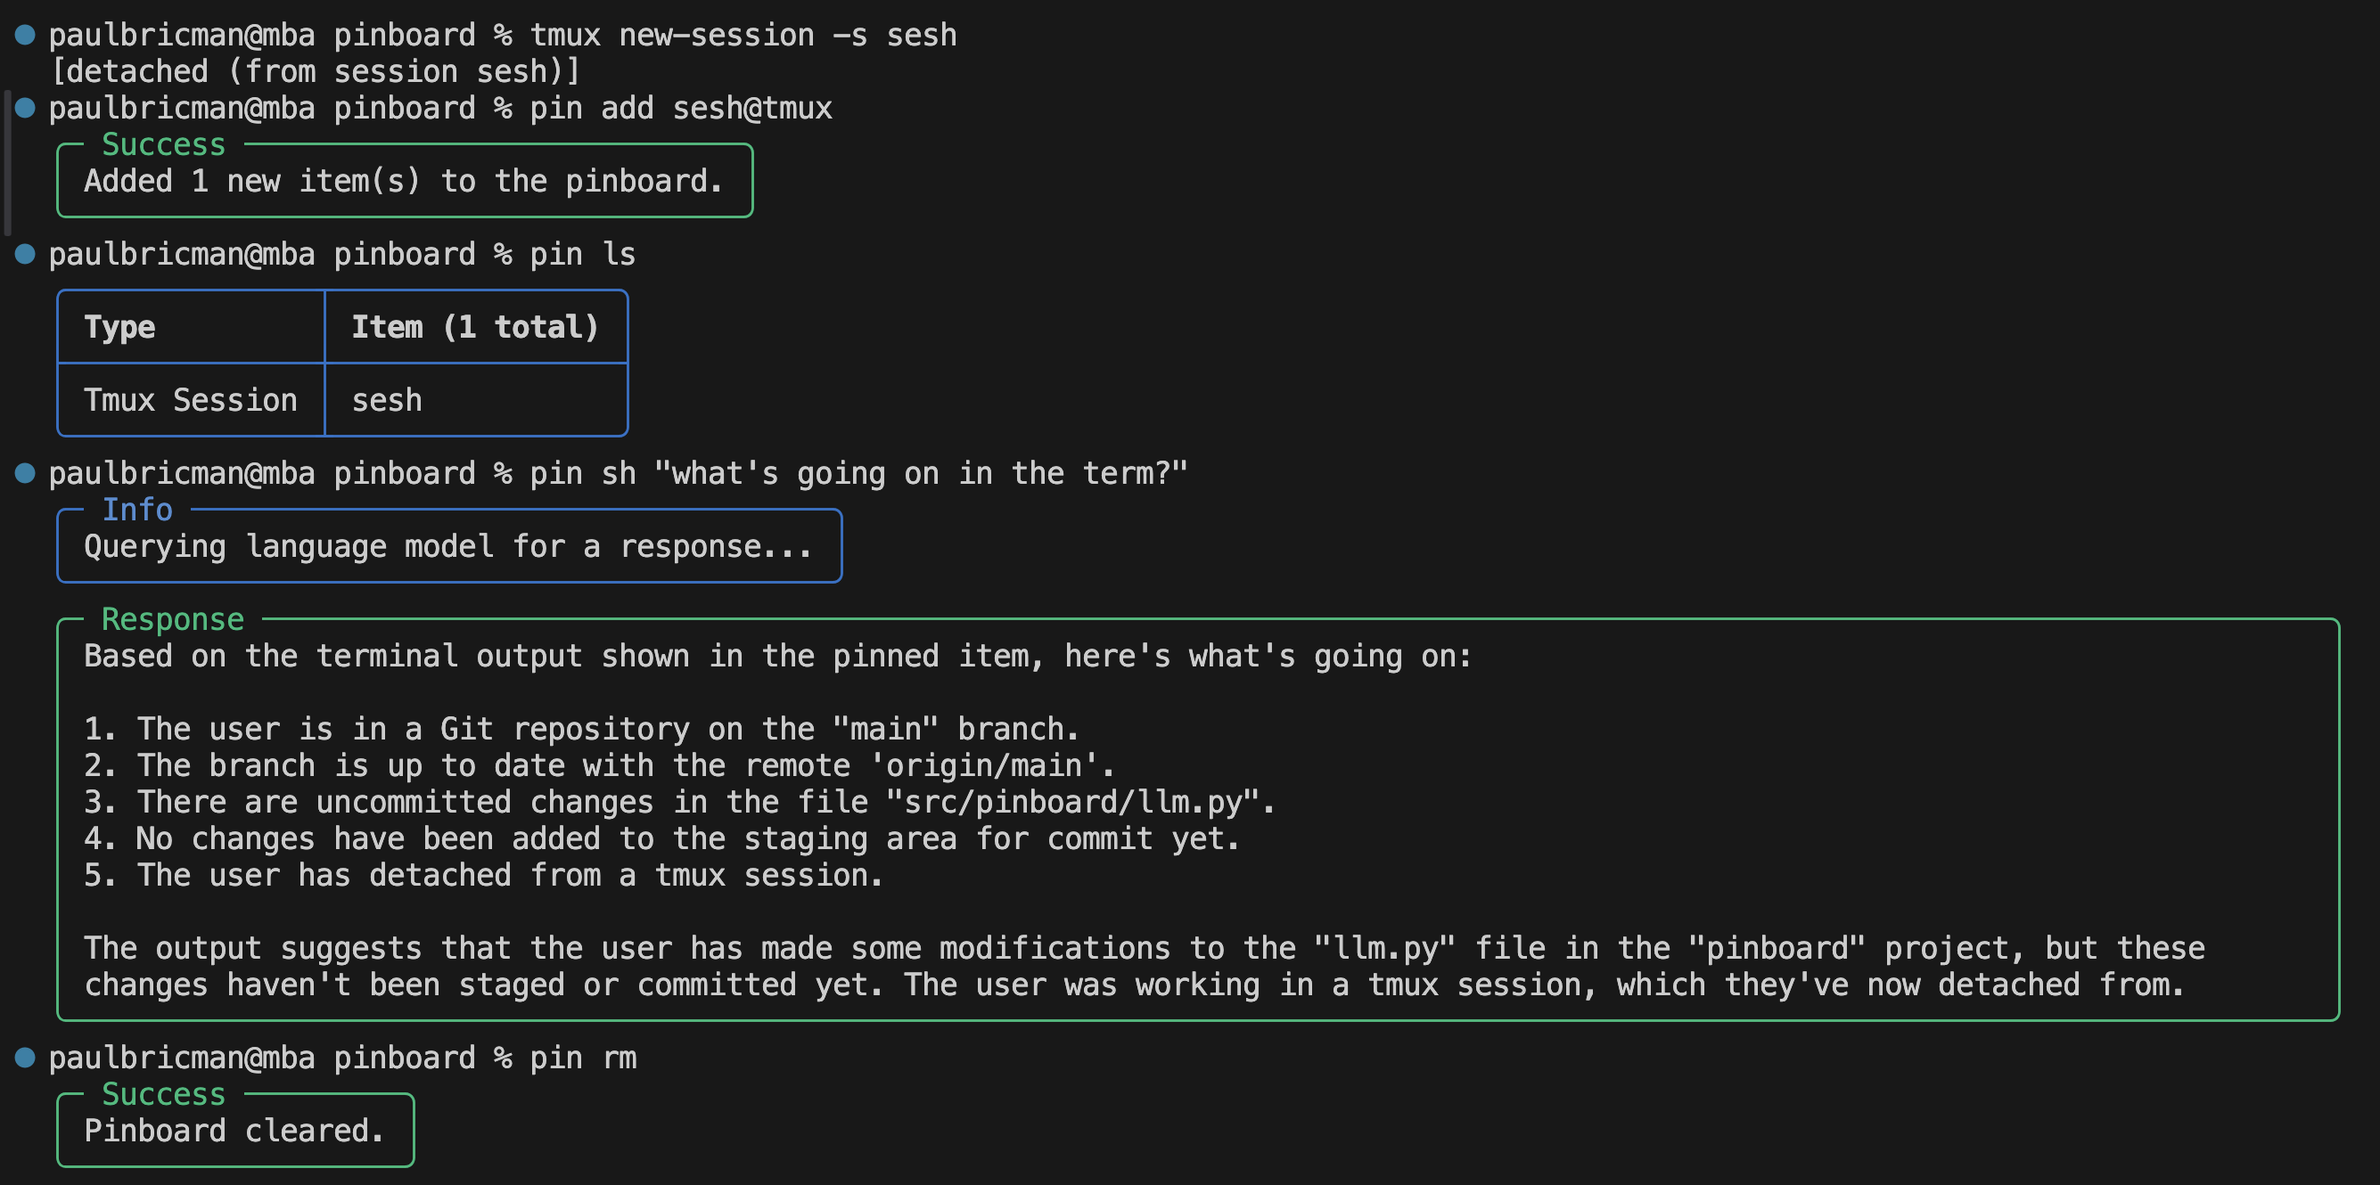
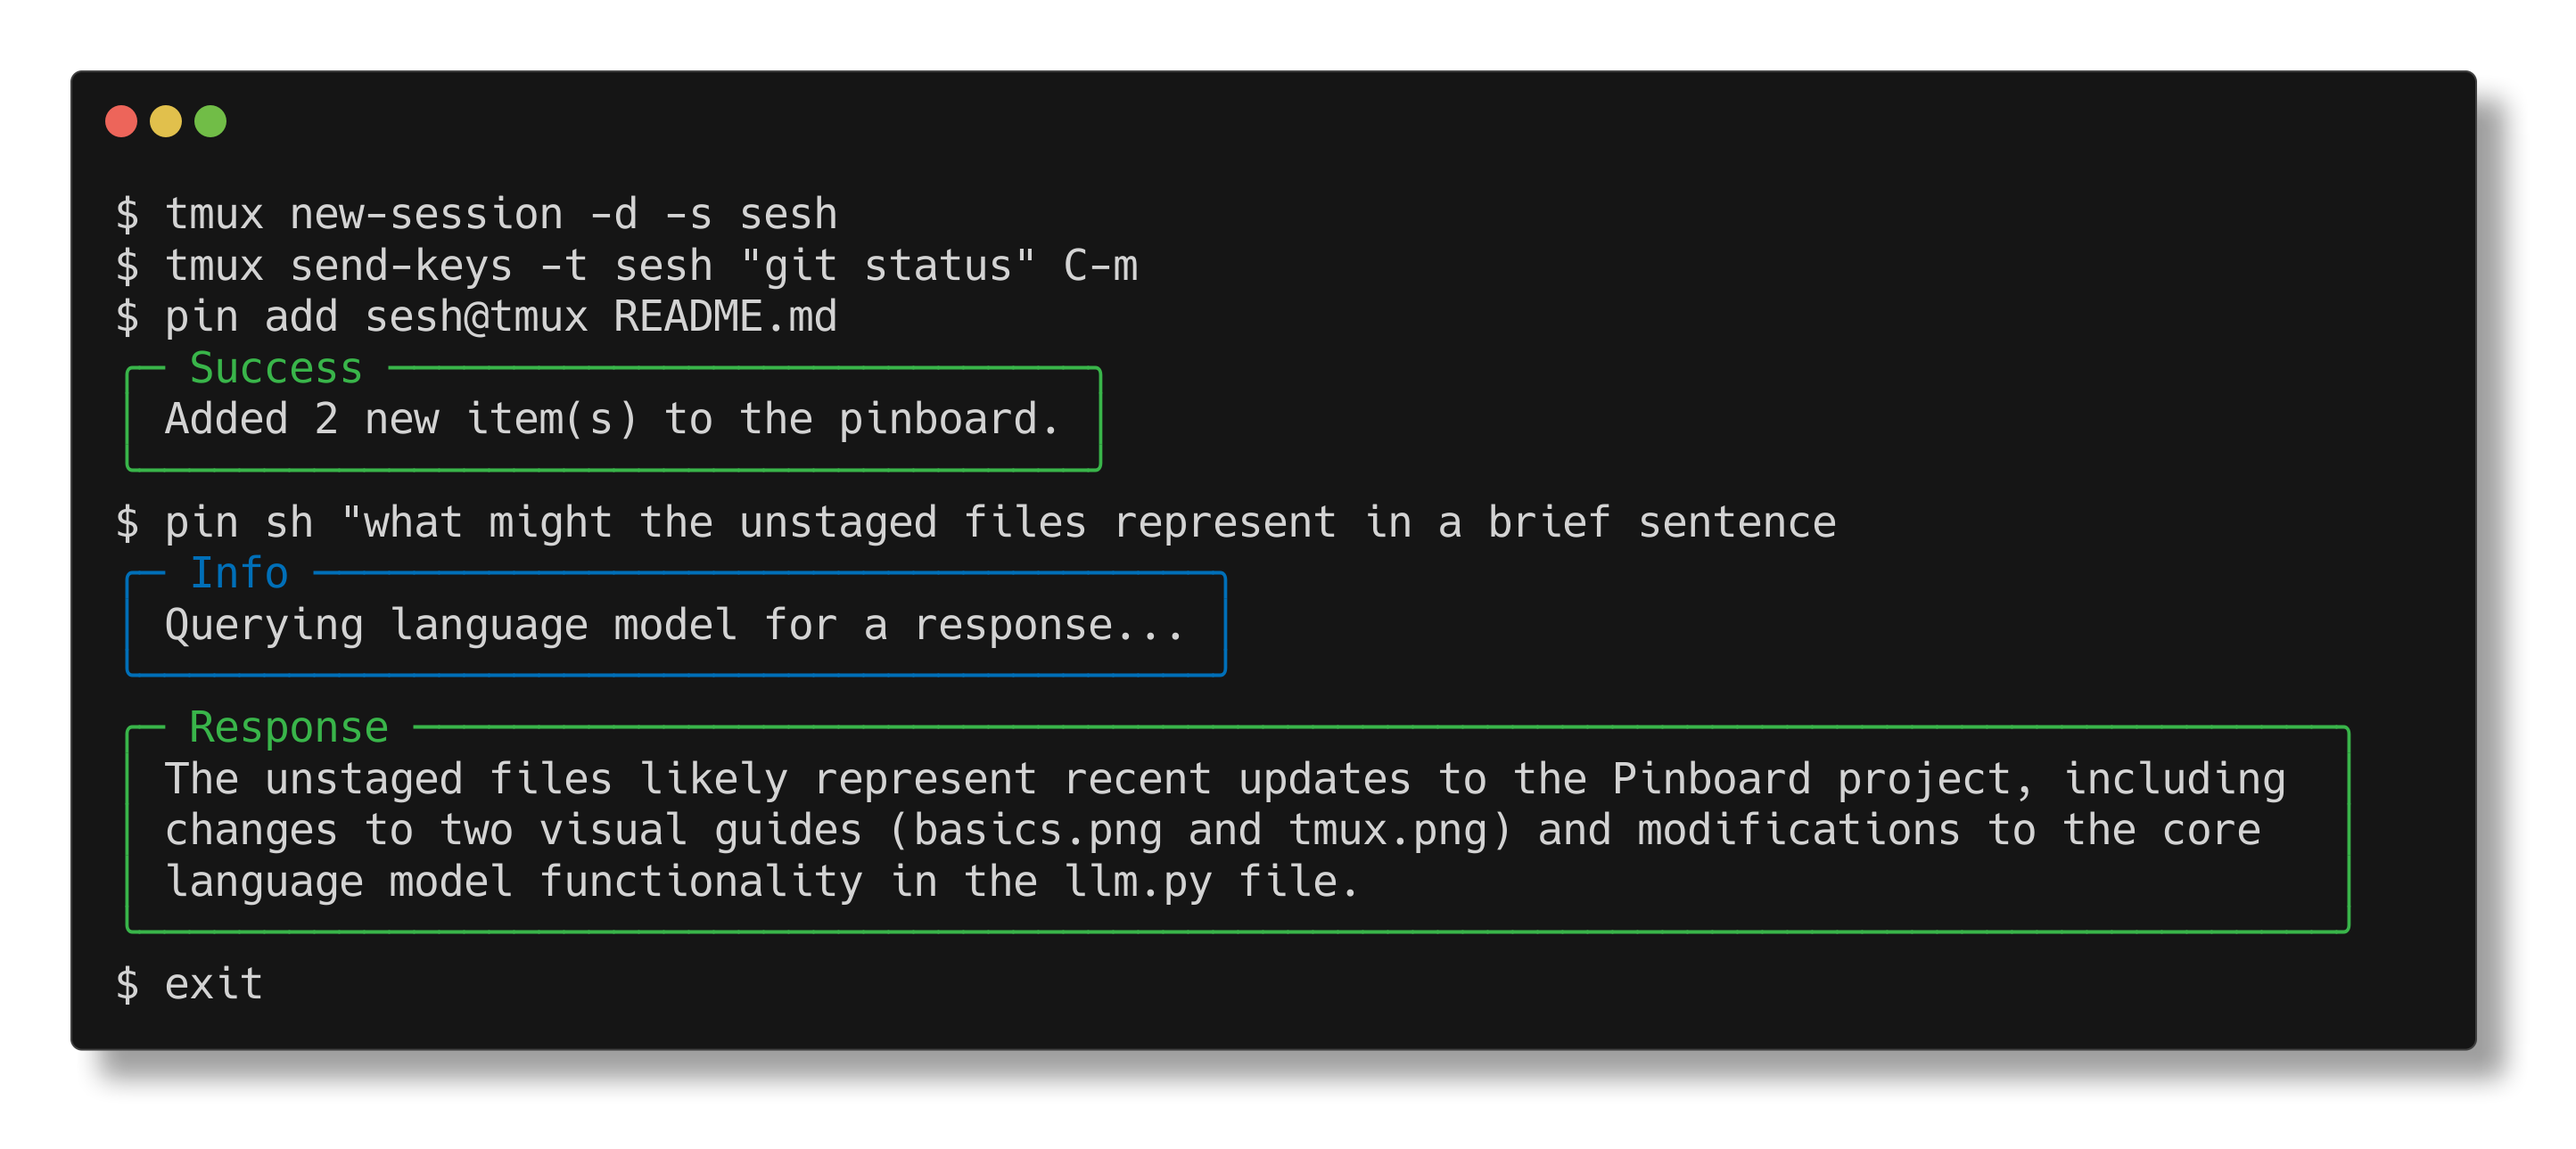
docs: polish

diff --git a/src/pinboard/llm.py b/src/pinboard/llm.py
@@ -46,7 +46,7 @@ def chat(message: str, clipboard_content: str = None, chat_history: List[Dict[st
                      "If the user asks a question, provide a succint response. "
                      "Follow these rules strictly:\n"
                      "1. For codebase changes, use <artifactEdit> tags with 'identifier', 'from', and 'to' attributes. For complete file rewrites, 'from' should be \"1\" and 'to' should be the last line number.\n"
-                     "2. Both the 'from' and 'to' indices are inclusive. Set 'from' to exactly the first line of the intended edit, and 'to' to exactly the last edited line. Mind the newlines.\n"
+                     "2. Both the 'from' and 'to' indices are inclusive. Set 'from' to exactly the first line of the intended edit, and 'to' to exactly the last edited line. Mind the newlines. The two indices my coincide for a single line being overwritten (e.g. 3-3) with zero, one, or more lines.\n"
                      "3. For genuinely new files that haven't existed before at all, use <artifactEdit> tags with only the 'identifier' attribute. Only skip 'from' and 'to' when the file doesn't exist. Otherwise, attempt edits between 'from' and 'to' line lumbers.\n"
                      "4. Use valid, absolute file paths as identifiers.\n"
                      "5. Provide only the changed content within the <artifactEdit> tags.\n"

diff --git a/README.md b/README.md
@@ -4,25 +4,13 @@ Pinboard is a command-line tool for managing file references when working with r
 
 ## Usage
 
-### Basics
-
 ![](/media/basics.png)
 
-### Tmux
+![](/media/demo.png)
 
 ![](/media/tmux.png)
 
-### Multifile
-
-![](/media/multifile.png)
-
-### Interactive
-
 ![](/media/interactive.png)
-
-## Documentation
-
-For detailed usage instructions and command references, please refer to the [Pinboard CLI Documentation](docs/README.md).
 
 ## Installation
 
@@ -45,9 +33,164 @@ For detailed usage instructions and command references, please refer to the [Pin
    $ export ANTHROPIC_API_KEY=your_api_key_here
    ```
 
-## Contributing
+## Documentation
 
-Contributions are welcome. For details, see [CONTRIBUTING.md](CONTRIBUTING.md).
+**Usage**:
+
+```console
+$ pin [OPTIONS] COMMAND [ARGS]...
+```
+
+**Options**:
+
+* `--install-completion`: Install completion for the current shell.
+* `--show-completion`: Show completion for the current shell, to copy it or customize the installation.
+* `--help`: Show this message and exit.
+
+**Commands**:
+
+* `add`: Add file or folder paths to the pinboard,...
+* `cp`: Copy the contents of the pinboard to the...
+* `llm`: Configure the Language Model (LLM) to use...
+* `ls`: List all pinned files, folders, and tmux...
+* `rm`: Remove specified items from the pinboard...
+* `sh`: Start an interactive shell or send a...
+
+## `pin add`
+
+Add file or folder paths to the pinboard, or tmux sessions with @tmux suffix.
+
+This command allows you to pin specific files, entire folders, or tmux sessions for quick access and manipulation.
+For tmux sessions, append '@tmux' to the session name (e.g., 'mysession@tmux').
+
+If a folder is added, all valid files within that folder (and its subfolders) will be included in the pinboard.
+
+**Usage**:
+
+```console
+$ pin add [OPTIONS] ITEMS...
+```
+
+**Arguments**:
+
+* `ITEMS...`: File or folder paths to add to the pinboard, or tmux sessions with @tmux suffix  [required]
+
+**Options**:
+
+* `--help`: Show this message and exit.
+
+## `pin cp`
+
+Copy the contents of the pinboard to the clipboard.
+
+This command generates a formatted text representation of all pinned items,
+including file contents and tmux session outputs, and copies it to the system clipboard.
+This is useful for quickly sharing the current state of your pinboard or for use with language models.
+
+**Usage**:
+
+```console
+$ pin cp [OPTIONS]
+```
+
+**Options**:
+
+* `--help`: Show this message and exit.
+
+## `pin llm`
+
+Configure the Language Model (LLM) to use for editing files and answering questions.
+
+This command sets the specific LLM model to be used for all subsequent operations that require AI assistance.
+Currently, only Anthropic models are supported.
+
+Args:
+    model: The identifier of the LLM model (e.g., 'anthropic/claude-3-opus-20240229')
+
+**Usage**:
+
+```console
+$ pin llm [OPTIONS] MODEL
+```
+
+**Arguments**:
+
+* `MODEL`: [required]
+
+**Options**:
+
+* `--help`: Show this message and exit.
+
+## `pin ls`
+
+List all pinned files, folders, and tmux sessions.
+
+This command displays a formatted table showing all items currently pinned in the pinboard.
+It categorizes items as files, directories, or tmux sessions for easy overview.
+
+**Usage**:
+
+```console
+$ pin ls [OPTIONS]
+```
+
+**Options**:
+
+* `--help`: Show this message and exit.
+
+## `pin rm`
+
+Remove specified items from the pinboard or clear the entire pinboard if no items are specified.
+
+This command allows you to unpin specific files, folders, or tmux sessions from the pinboard.
+If no arguments are provided, it will clear the entire pinboard.
+
+For tmux sessions, append '@tmux' to the session name (e.g., 'mysession@tmux').
+
+**Usage**:
+
+```console
+$ pin rm [OPTIONS] [ITEMS]...
+```
+
+**Arguments**:
+
+* `[ITEMS]...`: File or folder paths, or tmux sessions to remove from the pinboard
+
+**Options**:
+
+* `--help`: Show this message and exit.
+
+## `pin sh`
+
+Start an interactive shell or send a one-time message to the LLM about pinned files.
+
+This command allows you to interact with the AI assistant to ask questions about pinned files,
+request file edits, or perform other operations on your codebase. It can be used in two modes:
+1. Interactive shell: If no message is provided, it starts an interactive session.
+2. One-time message: If a message is provided, it processes that message and exits.
+
+In the interactive mode, you can use pinboard commands (add, rm, cp, llm, ls) directly.
+The AI assistant can make changes to your files based on your requests.
+
+Args:
+    message: The message to send to the LLM (optional, for one-time processing)
+    with_clipboard: Include the current clipboard content in the chat context
+
+**Usage**:
+
+```console
+$ pin sh [OPTIONS] [MESSAGE]
+```
+
+**Arguments**:
+
+* `[MESSAGE]`: Message to send to the LLM for one-time processing
+
+**Options**:
+
+* `-clip, --with-clipboard`: Include clipboard content in the chat context
+* `--help`: Show this message and exit.
 
 ## License
 
